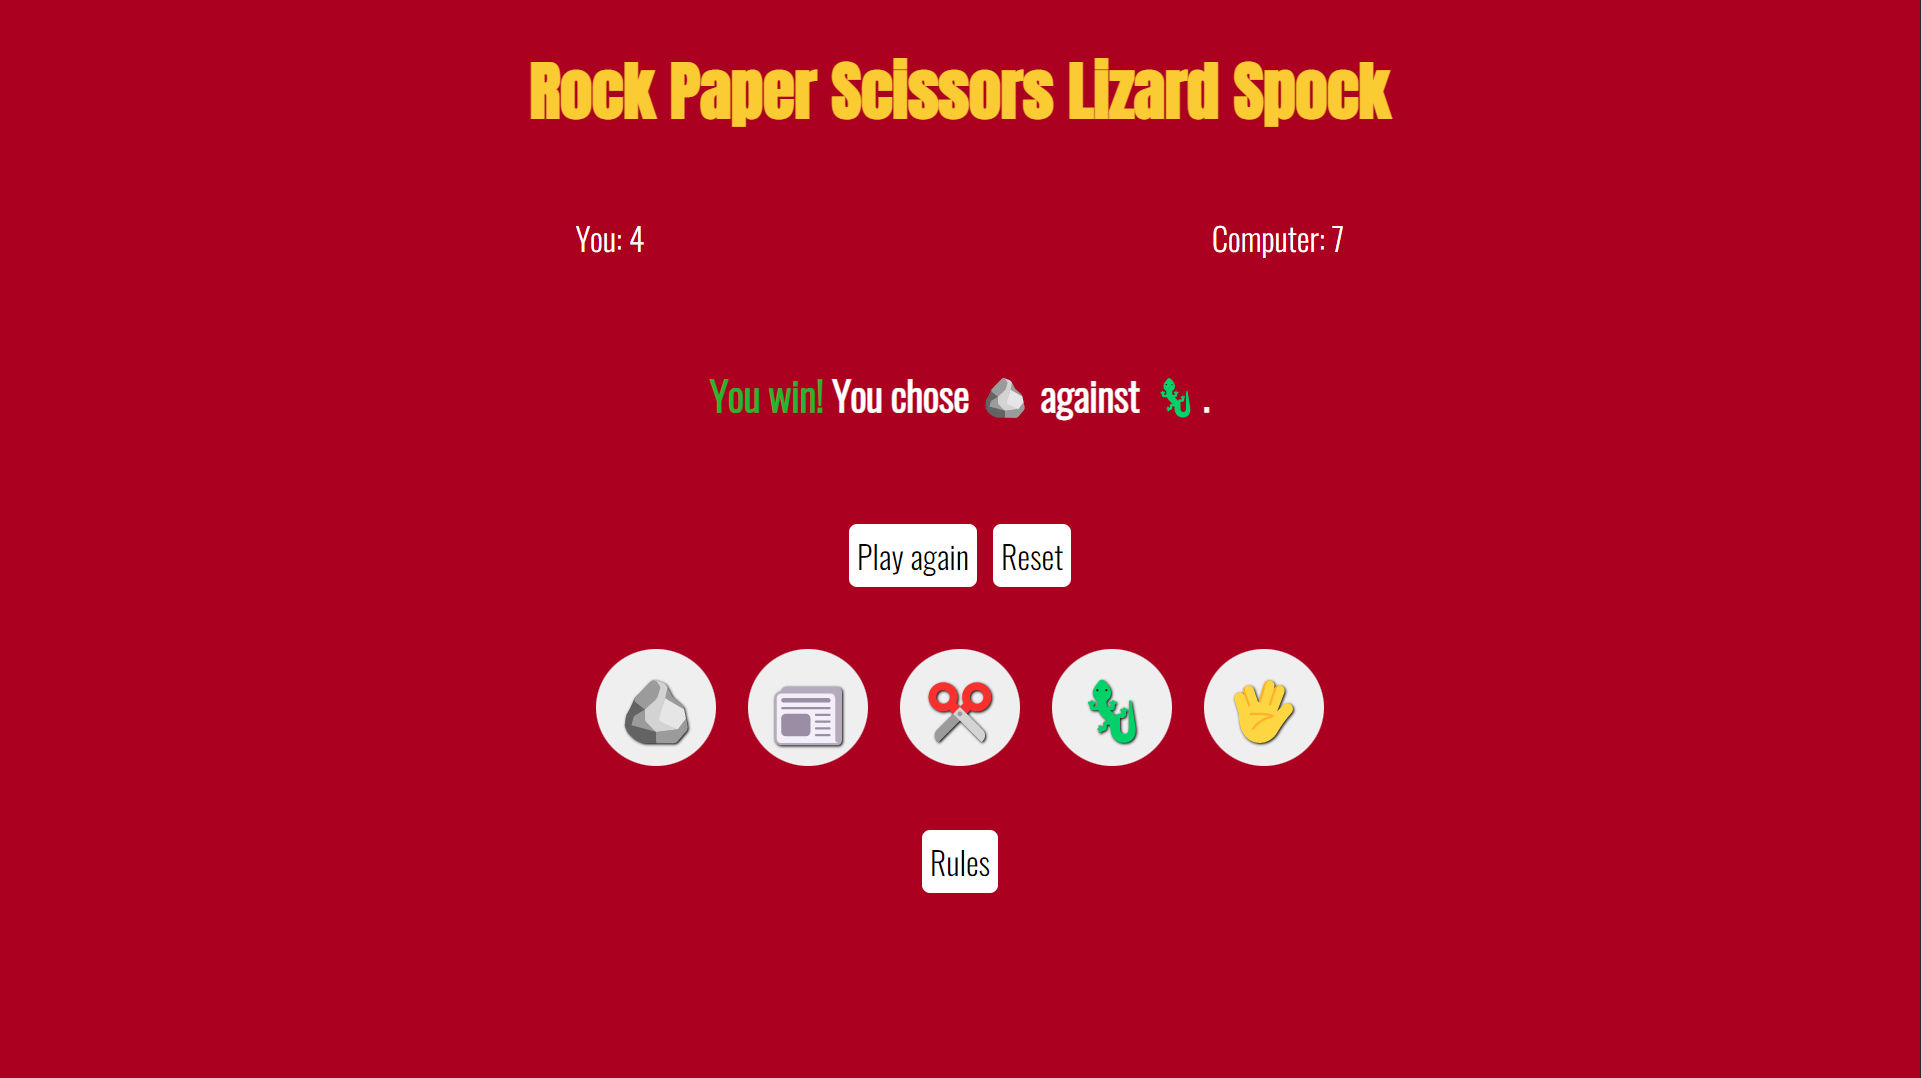
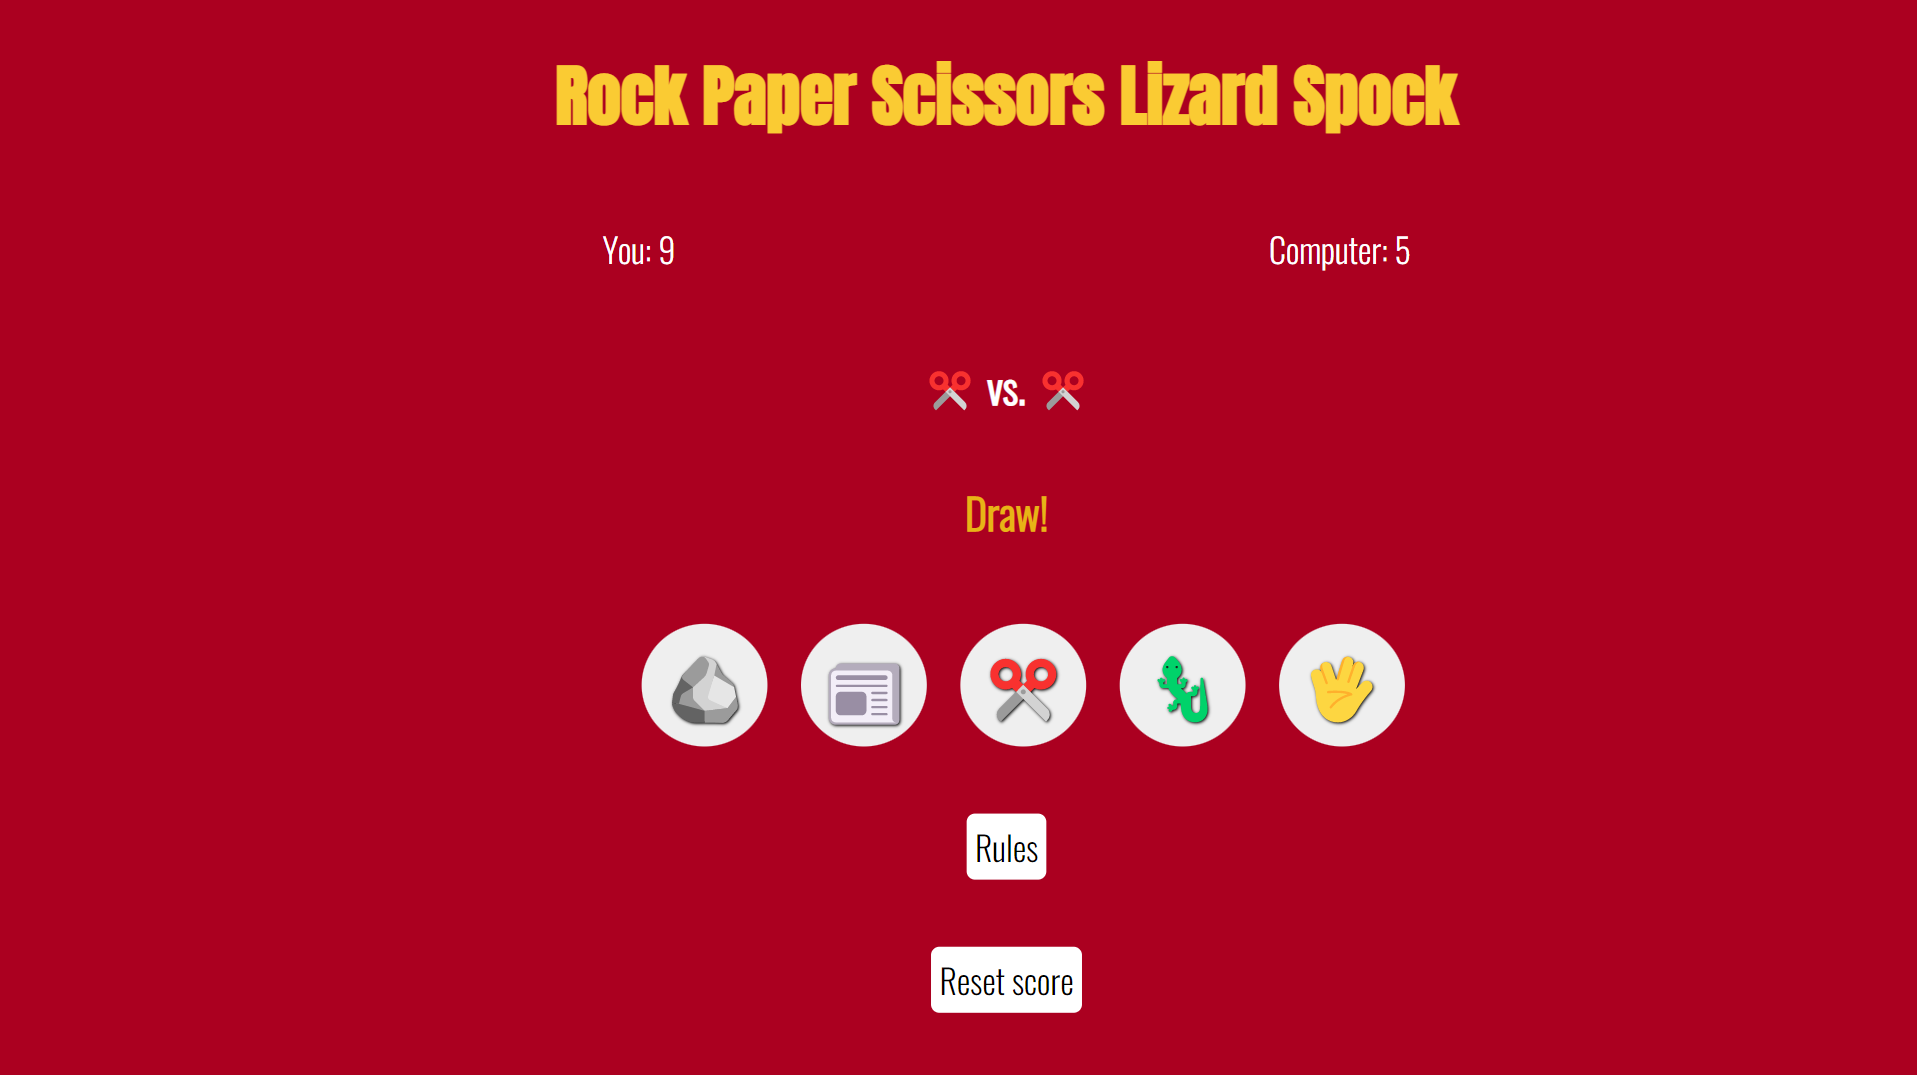
Fixed issue where results kept adding and changed CSS for responsiveness

diff --git a/app.js b/app.js
@@ -1,8 +1,8 @@
 // Variables
 const resultEl = document.querySelector('#result');
 const optionsEl = document.querySelector('#options');
-const playAgainEl = document.querySelector('#playAgain');
-const resetBtnEl = document.querySelector('#reset');
+
+const resetBtnEl = document.querySelector('.reset');
 const rulesBtnEl = document.querySelector('.rulesBtn');
 const rulesEl = document.querySelector('.rules');
 const userScoreEl = document.querySelector('.userScore');
@@ -115,6 +115,11 @@ const playGame = () => {
 	const weaponsEl = document.querySelectorAll('.weapons');
 	weaponsEl.forEach(weaponBtn => {
 		weaponBtn.addEventListener('click', e => {
+			// if this ID already exists. Remove it.
+			if (document.getElementById('resultText')) {
+				document.getElementById('resultText').remove();
+			}
+
 			// User choice
 			userChoice = e.target.innerHTML;
 
@@ -122,39 +127,20 @@ const playGame = () => {
 			compChoice = options[Math.floor(Math.random() * options.length)];
 
 			compareChoices(userChoice, compChoice);
-
-			playAgainEl.innerHTML = `<p>Play again</p>`;
-			resetBtnEl.innerHTML = `<p>Reset</p>`;
-
-			// if (document.getElementById('resultText')) {
-			// 	document.getElementById('resultText').remove();
-			// }
-
-			playAgain();
-			resetGame();
 		});
 	});
 };
 
 playGame();
 
-// New round, go again
-const playAgain = () => {
-	playAgainEl.addEventListener('click', () => {
-		resultEl.innerHTML = '';
-		playAgainEl.innerHTML = '';
-		resetBtnEl.innerHTML = '';
-	});
-};
-
 // reset button
 const resetGame = () => {
 	resetBtnEl.addEventListener('click', () => {
 		resultEl.innerHTML = '';
-		playAgainEl.innerHTML = '';
-		resetBtnEl.innerHTML = '';
 		userScore = 0;
 		compScore = 0;
 		updateScore();
 	});
 };
+
+resetGame();

diff --git a/style.css b/style.css
@@ -22,7 +22,7 @@ h1 {
 
 .topSection {
 	text-align: center;
-	min-height: 30vh;
+	min-height: 25vh;
 	display: flex;
 	flex-flow: row wrap;
 	justify-content: center;
@@ -48,11 +48,20 @@ h2 {
 	color: #000000;
 }
 
+.bottomSection {
+	/* display: flex;
+	flex-wrap: wrap;
+	justify-content: center;
+	align-items: center;
+	gap: 2rem; */
+}
+
 #options {
 	display: flex;
 	flex-wrap: wrap;
 	justify-content: center;
 	padding: 1rem;
+	width: 100%;
 }
 
 button {
@@ -67,26 +76,20 @@ button {
 	text-shadow: 1px 1px 3px black;
 }
 
-.btns {
-	width: 100%;
-	display: flex;
-	justify-content: center;
-	gap: 1rem;
-}
-
-.replay p,
-.rulesBtn p {
+.rulesBtn p,
+.reset p {
 	font-family: 'Oswald', sans-serif;
-	display: inline;
+	display: inline-block;
 	padding: 0.5rem;
 	background-color: white;
 	border-radius: 0.5rem;
 	font-size: clamp(0.5rem, 3vw, 2rem);
 }
 
-.rulesBtn {
-	display: flex;
-	justify-content: center;
+.rulesBtn,
+.reset {
+	text-align: center;
+	/* max-width: 20%; */
 }
 
 .hide {

diff --git a/index.html b/index.html
@@ -27,14 +27,11 @@
 		</header>
 		<section class="topSection">
 			<div id="result"></div>
-			<div class="btns">
-				<div id="playAgain" class="replay"></div>
-				<div id="reset" class="replay"></div>
-			</div>
 		</section>
 		<section class="bottomSection">
 			<div id="options"></div>
 			<div class="rulesBtn"><p>Rules</p></div>
+			<div class="reset"><p>Reset score</p></div>
 		</section>
 		<section>
 			<div class="rules hide"></div>
